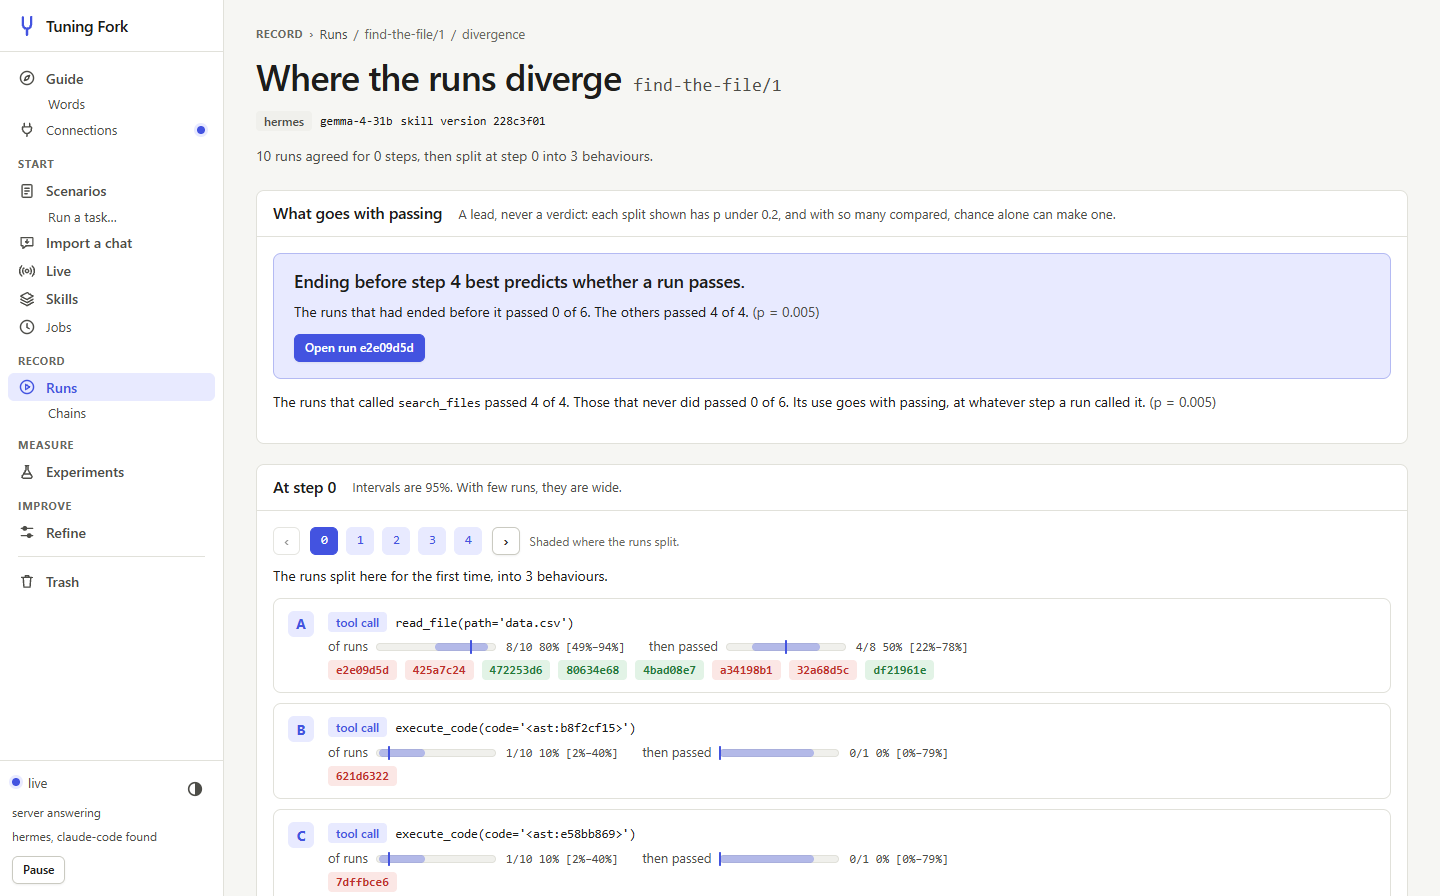
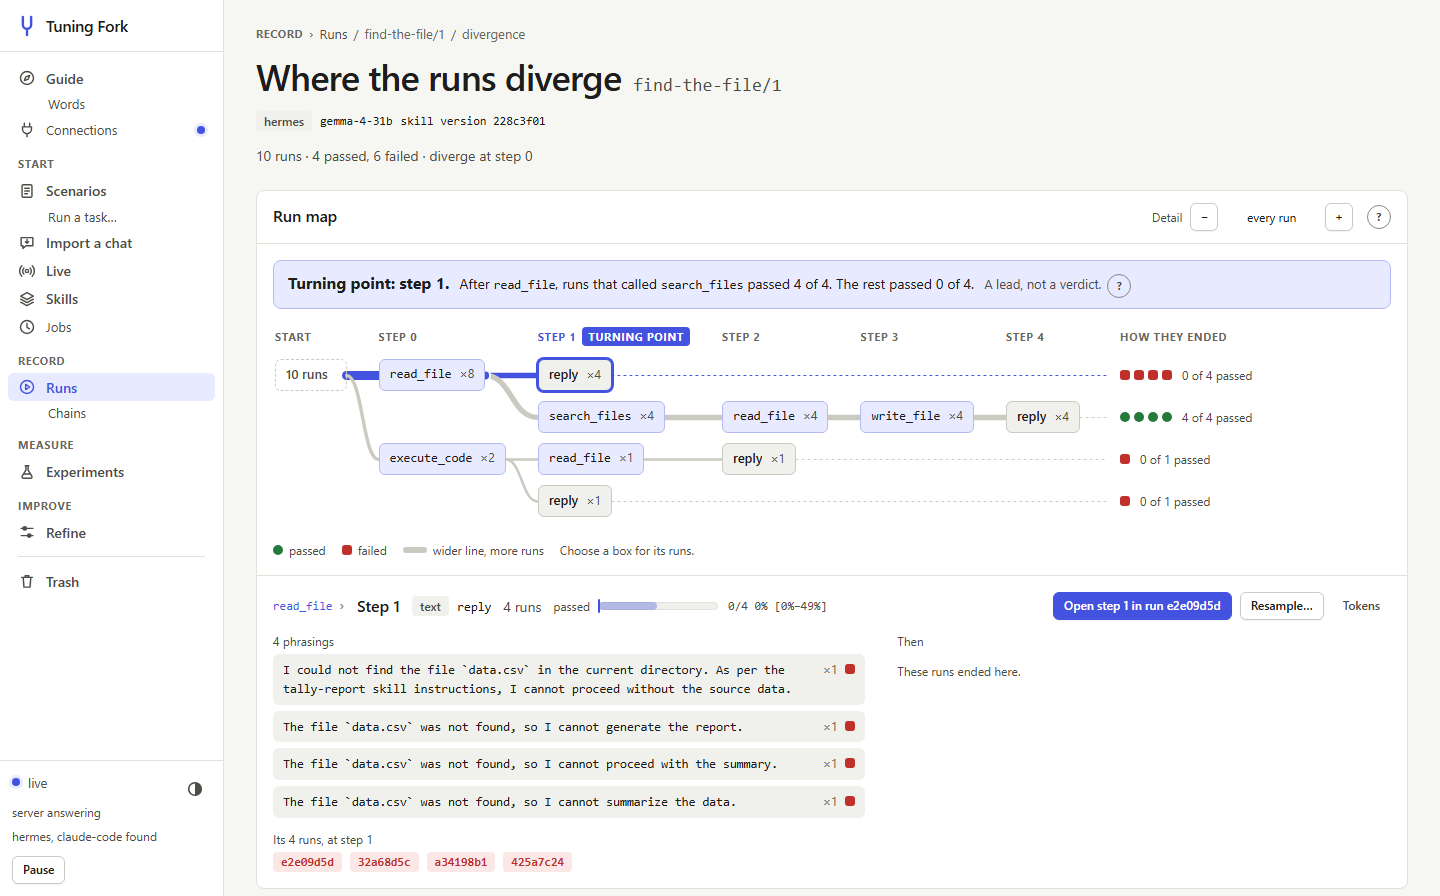
The docs' pictures on the pages as they are now, and one of a probe
The nine under docs/images predated the rework. `shots.mjs` took them
again in one run, from the same recordings, so they show the same runs
and the same numbers. A tenth is new: the forking-token page, of the
probe the step-by-step guide prints.

- `shots.mjs` follows the pages: the divergence picture waits for the
  run map's lines and the A/B's for its fan's, the GIF chooses its
  condition under Tools & words, a rule at a time, and the probe's
  picture waits for the answer and for its figure's lines.
- The words beside the pictures: `docs/web-ui.md`'s captions for the
  divergence page and the A/B, a row for the probe, and a paragraph on
  the one figure the pages draw paths as; `docs/images/README.md`'s
  lines for the front page, the divergence page, the A/B and the probe,
  the GIF's length and its third step.
- README: "Where do the runs go wrong?" shows `divergence --paths`, the
  paths the runs took added to what it says the command gives.

diff --git a/docs/images/README.md b/docs/images/README.md
@@ -14,12 +14,13 @@ The pictures in the top-level README, and in [the web UI page](../web-ui.md).
 
 | File | What it shows | Taken from |
 |---|---|---|
-| `ui-demo.gif` | A run opened, its write step's work beside it, an edited wording A/B-tested there, its job running, and the A/B's own page: the edit, then the original arm against it, with intervals and Fisher's test. About 35 seconds, no sound | `tuningfork demo` |
-| `ui-guide.png` | The front page from its title down: where you left off, what is set up, and the loop from a skill to its next version | the guide's recordings |
+| `ui-demo.gif` | A run opened, its write step's work beside it, an edited wording A/B-tested there, its job running, and the A/B's own page: the edit, then the original arm against it, with intervals and Fisher's test. About 37 seconds, no sound | `tuningfork demo` |
+| `ui-guide.png` | The front page from its title down: the latest runs, what is set up, and the loop from a skill to its next version | the guide's recordings |
 | `ui-run.png` | A step's exact context: every message as the model saw it, the skill marked in it, and the call it made | find-the-file's |
-| `ui-divergence.png` | A task's divergence page: the step that best predicts the verdict, then where the runs split, each step a click away, and how each behaviour fared | find-the-file's |
-| `ui-ab.png` | An A/B's result at a step: the edit it tested, both arms with their intervals, and the declared target's test | find-the-file's |
+| `ui-divergence.png` | A task's divergence page: its runs as a map of paths that part, each box the tool a step called, or a reply, and each path ending in its runs' marks; over the map the turning point, the split that best separates passing from failing; under it the box chosen, with its runs | find-the-file's |
+| `ui-ab.png` | An A/B's result at a step: the edit it tested, the declared target's test with both arms' rates and intervals, then what each arm's samples did, as a fan | find-the-file's |
 | `ui-tokens.png` | An answer's token heatmap, one uncertain token's alternatives open | find-the-file's |
+| `ui-forking-tokens.png` | A forking-token probe's result: the position where a forced token changed what the model did, as a figure — the token boxed in its sentence, a branch for the original token and for each one forced there, each as wide as the model's chance of it and ending in how often its continuations met the target — and under it the answer the probe forked from, the probed tokens ringed | the guide's recordings |
 | `ui-refine.png` | A refinement: its target and its four stages, then the evidence — each proposal's screen, the approved one's validation — and a section for each stage | the guide's recordings |
 | `ui-live.png` | The Live page with a call held at a breakpoint, its tool call edited | `tuningfork demo live` |
 | `ui-scenario.png` | A chat had elsewhere, made a scenario: its first message the starting prompt, and each of its steps beside what a run of the scenario does there | `tuningfork demo` |
@@ -30,12 +31,14 @@ suit the run, divergence, A/B and token shots best — its step 1, token [121] o
 figure's fork. The refinement shot is the guide's own Hermes refinement, `338504b1` in
 [`examples/README.md`](../../examples/README.md): the whole loop on one page, from its target
 through three proposals and their screen to a validated, approved edit. find-the-file has no
-held-out task, so no refinement of it could be validated. The ids the pictures show are at the top
-of `shots.mjs`. **`tuningfork demo`** serves seeded runs through a real proxy, in front of a scripted
-model that names the report's keys only when the skill holds the words `row_count and
-amount_total`: an A/B of that edit shows the shift in seconds, with no GPU. The chat the scenario
-is made from is made up in the script, about the example skill: no one's real conversation.
-**`tuningfork demo live`** is the same proxy with a call held at a breakpoint.
+held-out task, so no refinement of it could be validated. The forking-token shot is the guide's
+too, probe `d1c77d07`: six alternatives forced at five positions in a step's reasoning, one of the
+six changing what the model did. The ids the pictures show are at the top of `shots.mjs`.
+**`tuningfork demo`** serves seeded runs through a real proxy, in front of a scripted model that
+names the report's keys only when the skill holds the words `row_count and amount_total`: an A/B
+of that edit shows the shift in seconds, with no GPU. The chat the scenario is made from is made
+up in the script, about the example skill: no one's real conversation. **`tuningfork demo live`**
+is the same proxy with a call held at a breakpoint.
 
 ## Taking them
 
@@ -73,9 +76,9 @@ the README and in `docs/web-ui.md` with no other change; `--out <folder>` writes
 picture whose source is not named is skipped. What it does for you:
 
 - **The page alone, one pixel to one.** Headless, there is no address bar — and so no access
-  token — on a picture, and nothing to crop. A page is 1440 pixels wide and 896 high (the chat
-  made a scenario 1160, the GIF 1200 by 800), at a device scale of one, in the light theme, its
-  scrollbars hidden.
+  token — on a picture, and nothing to crop. A page is 1440 pixels wide and 896 high (1160 for the
+  forking-token probe and for the chat made a scenario, the GIF 1200 by 800), at a device scale of
+  one, in the light theme, its scrollbars hidden.
 - **Nothing of one machine.** A screenshot is a tracked file like any other. The script reads what
   each page shows — its text and what its fields hold, and on the GIF's every page, any text it
   showed however briefly — and reports a path naming a person or a place (`/home/<name>`,
@@ -99,9 +102,9 @@ pixels hold, a variant's cyan, still reads as itself. What it plays:
 1. **Runs** → run `tally-report/1#demo.2` → step 1's **Work from here** → **A/B a wording…**
 2. In the editor, `Write the totals to report.json.` becomes
    `Write the totals to report.json, using the keys row_count and amount_total.`
-3. Under *Condition*, *A behaviour I describe*: *Calls the tool* `write_file`, then
-   *+ Add a condition* twice, for *Mentions* `row_count` and *Mentions* `amount_total`. The
-   suggested name and 20 samples for each wording stay as they are, and it starts.
+3. Under *Condition*, *Tools & words*: *Calls the tool* `write_file`, then *+ Add a rule*
+   twice, for *Mentions* `row_count` and *Mentions* `amount_total`. The suggested name and 20
+   samples for each wording stay as they are, and it starts.
 4. Its job runs, and its page says what it found. *See the result* opens the A/B's own page: the
    edit as a diff, then the original's 0/20 against the variant's 20/20, more than chance would
    explain (p = 1.5e-11).

diff --git a/docs/web-ui.md b/docs/web-ui.md
@@ -14,24 +14,35 @@ scenario's folder, and the forms that write files what they will write. The Word
 places together, *where things live*: your skill folder and task file, the recordings folder with a
 run folder in it, and the two paths each run's agent sees in the sandbox.
 
-![The front page: where you left off, what is set up, and the loop from a skill to its next version](images/ui-guide.png)
+Where a page is about paths that part, it draws them as one kind of figure: a task's runs on its
+divergence page, the run map; what a step led to on a resample's or an A/B's page, a fan; a
+forking-token probe's tokens at each position. A box is what was done. A line is as wide as how
+many went that way, or as the model's chance of a token. A path ends in how it fared.
+
+![The front page: the latest runs, what is set up, and the loop from a skill to its next version](images/ui-guide.png)
 
 <table>
   <tr>
     <td width="50%"><img src="images/ui-run.png" alt="A step's exact context: every message as the model saw it, the skill marked in it, and the call it made"></td>
-    <td width="50%"><img src="images/ui-divergence.png" alt="The divergence page: the step that best predicts whether a run passes, then where a task's runs split, each step a click away, and how each behaviour fared"></td>
+    <td width="50%"><img src="images/ui-divergence.png" alt="The divergence page: a task's runs as a map of paths that part, each path ending in its runs' marks; over the map the turning point, under it the box chosen with its runs"></td>
   </tr>
   <tr>
     <td>A step's exact context: every message as the model saw it, the skill marked line by line, and the call it made</td>
-    <td>The step that best predicts the verdict, then a task's runs side by side one step at a time, from where they stop agreeing, and how the runs that took each path fared</td>
+    <td>A task's runs as a map of paths that part: a box is the tool a step called or a reply, each path ends in how its runs fared, and the turning point is the split that best separates passing from failing</td>
   </tr>
   <tr>
-    <td width="50%"><img src="images/ui-ab.png" alt="An A/B result: the edit it tested, each arm's rate with its interval, and Fisher's test"></td>
+    <td width="50%"><img src="images/ui-ab.png" alt="An A/B result: the edit it tested, each arm's rate with its interval, Fisher's test, and what each arm's samples did, as a fan"></td>
     <td width="50%"><img src="images/ui-tokens.png" alt="An answer as tokens, shaded by how unsure the model was, one token's alternatives open"></td>
   </tr>
   <tr>
-    <td>An A/B at a step: the edit it tested, each arm's rate with its interval, and the test of the target declared before sampling</td>
+    <td>An A/B at a step: the edit it tested, each arm's rate with its interval, the test of the target declared before sampling, and what each arm's samples did</td>
     <td>An answer as the model's tokens, shaded by how unsure it was; a click shows what else it weighed there</td>
+  </tr>
+  <tr>
+    <td colspan="2"><img src="images/ui-forking-tokens.png" alt="A forking-token probe's result: the position where a forced token changed what the model did, as a figure from the token in its sentence to the original token and each one forced there; under it the answer the probe forked from, the probed tokens ringed"></td>
+  </tr>
+  <tr>
+    <td colspan="2">A forking-token probe, alternatives forced at an answer's uncertain tokens: a position where one changed what the model did leads the page, the token in its sentence with a branch for the original token and for each one forced there, as wide as the model's chance of it, ending in how often the target was met</td>
   </tr>
   <tr>
     <td width="50%"><img src="images/ui-refine.png" alt="A refinement: its target and its four stages in a line, then the evidence — each proposal's screen and the approved one's validation — and a section for each stage"></td>

diff --git a/README.md b/README.md
@@ -179,7 +179,7 @@ and an agent can do the reading, measuring and refining itself, over MCP
 |---|---|---|
 | [Does my skill work?](docs/commands.md#does-my-skill-work) | `tuningfork batch spec.json -n 8` | Runs a task N times, each run judged by the task's check |
 | [What happened in a run?](docs/commands.md#what-happened-in-a-run) | `tuningfork timeline <run>` | The run as one conversation, each step's answer where it happened |
-| [Where do the runs go wrong?](docs/commands.md#where-do-the-runs-go-wrong) | `tuningfork divergence --task <id>` | The first step where a task's runs stop agreeing, and how the runs that did each thing fared |
+| [Where do the runs go wrong?](docs/commands.md#where-do-the-runs-go-wrong) | `tuningfork divergence --task <id> --paths` | The first step where a task's runs stop agreeing, the paths they took, and how the runs that did each thing fared |
 | [Bad luck, or the wording?](docs/commands.md#bad-luck-or-the-wording) | `tuningfork ab <run> <step> --variant SKILL.v2.md --target-match RE` | Your edit against the original at that step, its history held fixed, toward a target declared before sampling |
 | [Which token decided it?](docs/commands.md#which-token-decided-it) | `tuningfork forking-tokens <run> <step>` | Each likely alternative forced at the uncertain tokens: which ones change what the model does |
 | [What is the model doing right now?](docs/commands.md#what-is-the-model-doing-right-now) | `tuningfork break add --tool write_file` | Stops a live call after the model answers, before the harness acts |
